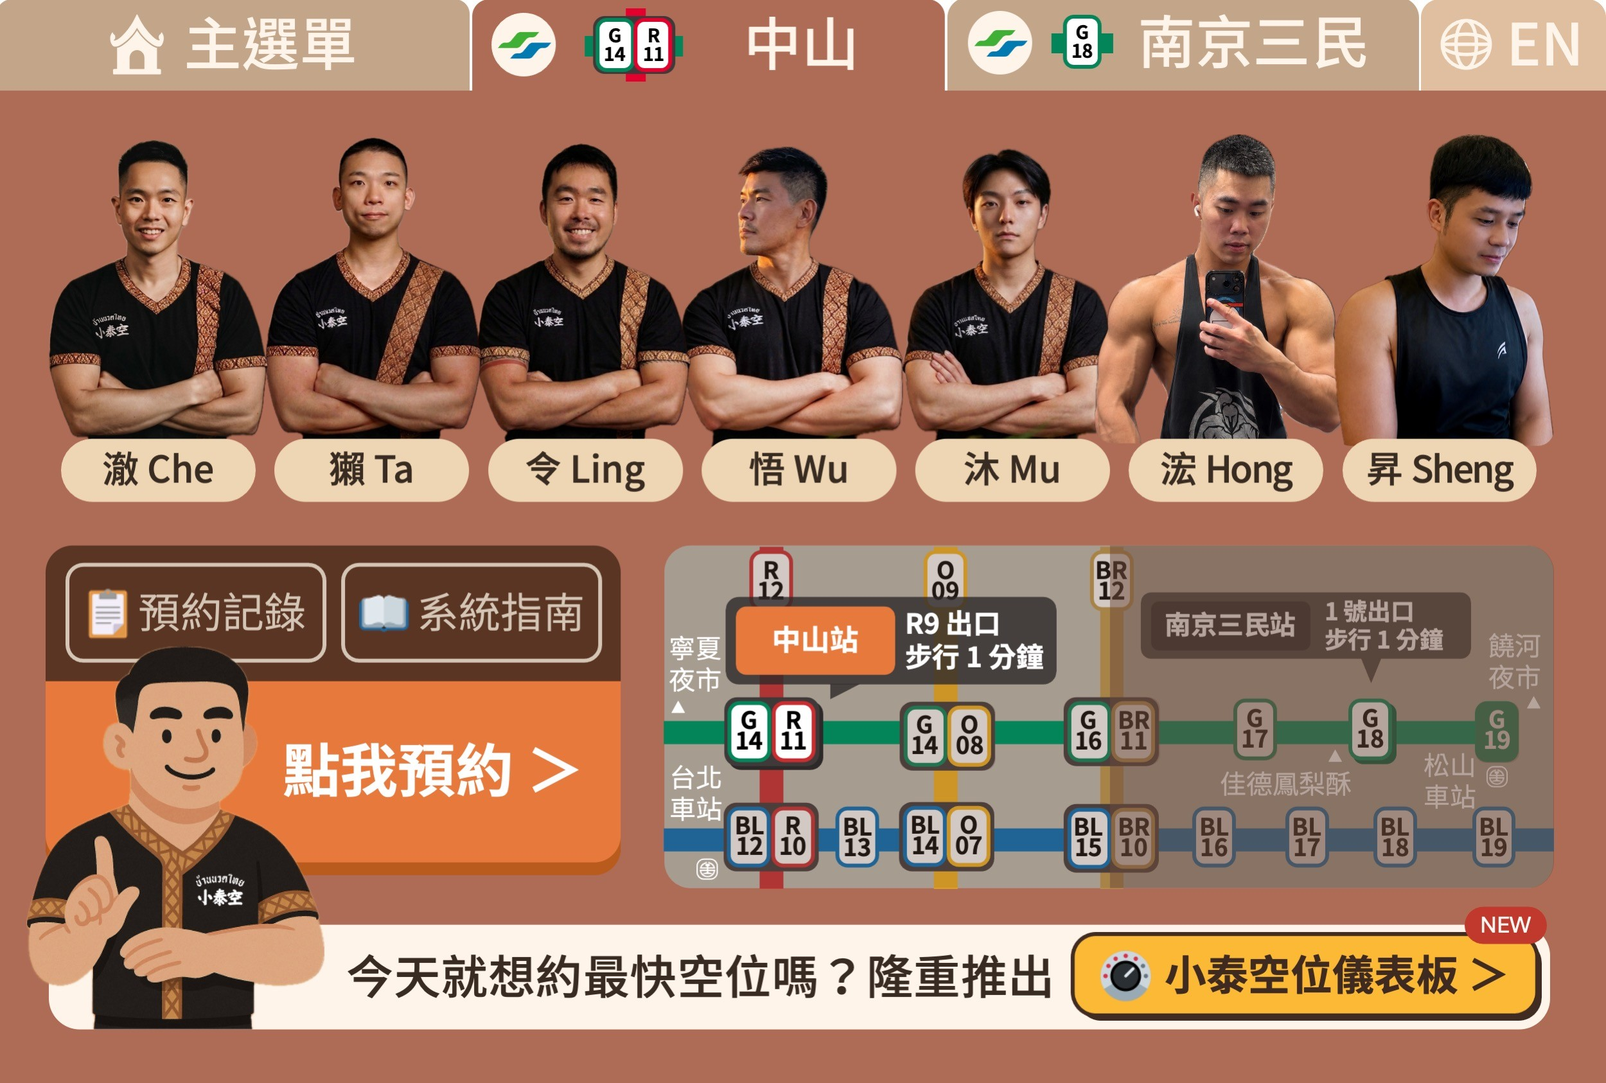
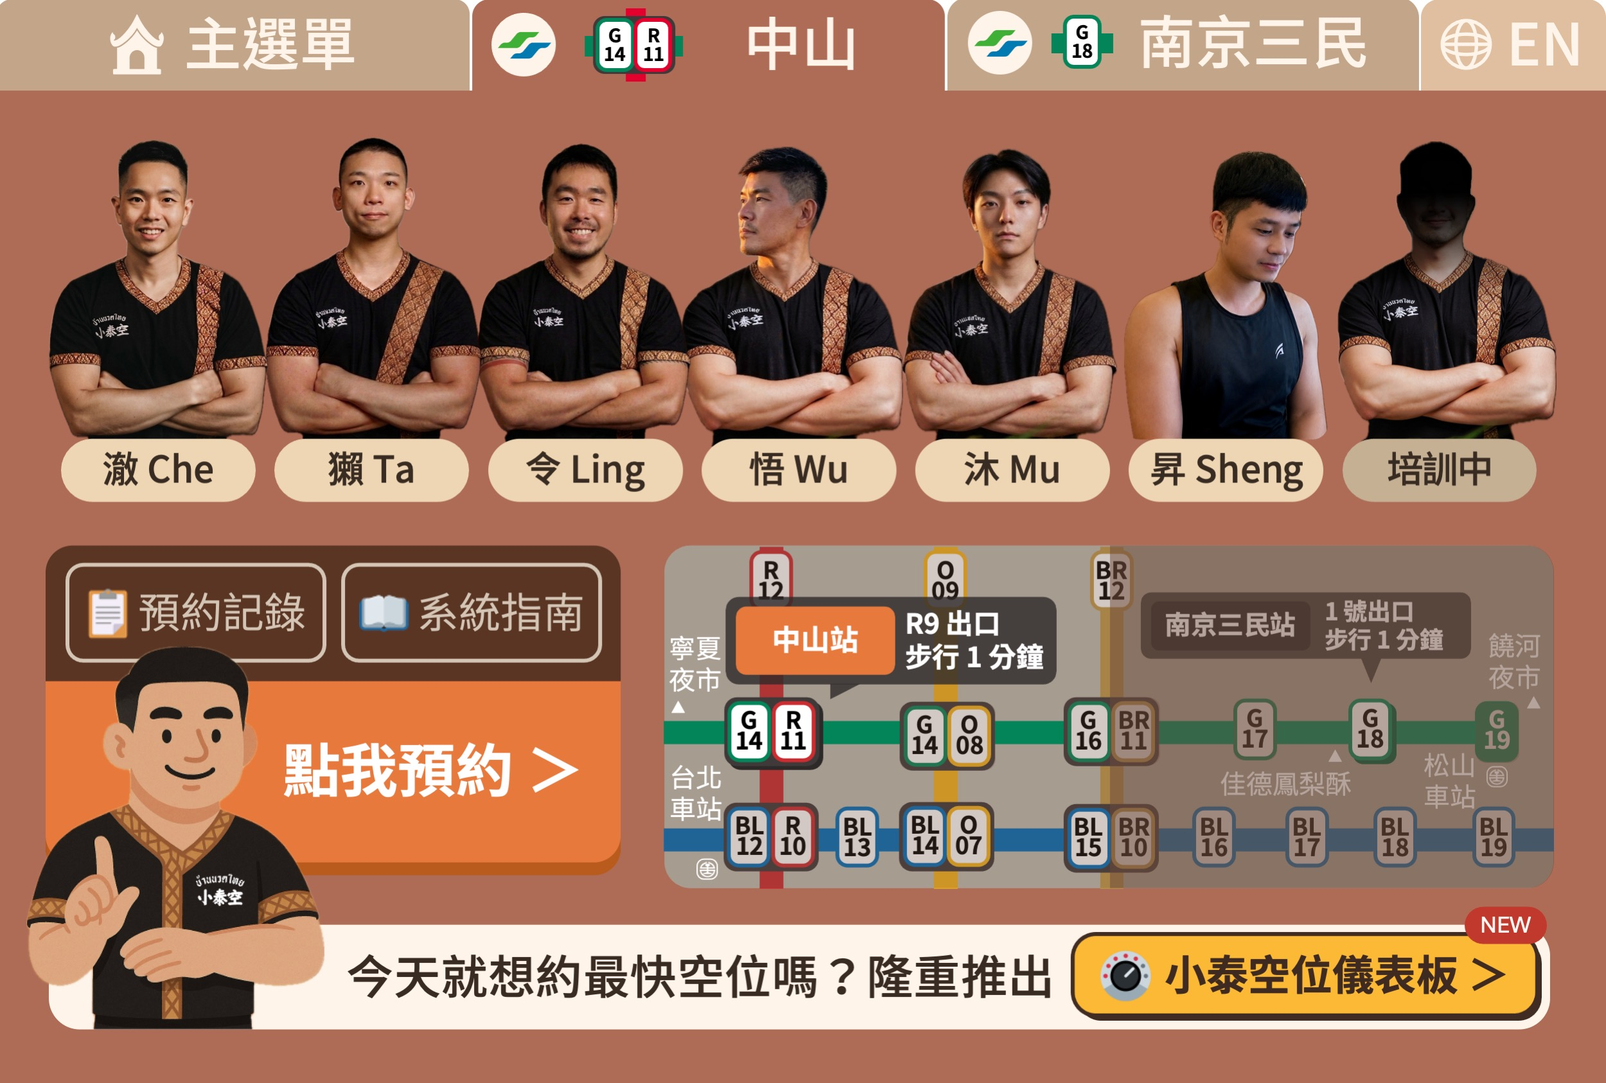
Add files via upload

Changed region(s): [[0.6552, 0.1234, 0.9672, 0.4626], [0.1872, 0.4318, 0.2496, 0.4626]]

diff --git a/index.html b/index.html
@@ -60,10 +60,10 @@
 <body>
 <div class="wrap">
 <div class="page" id="p1"><img src="page1.jpg" alt="主選單"><a class="spot" style="left:2.400%;top:13.345%;width:17.040%;height:34.045%" href="https://nick810303.github.io/spacethai_FAQ/" target="_blank" rel="noopener"></a><a class="spot" style="left:21.840%;top:13.286%;width:17.040%;height:34.045%" href="https://line.me/R/oaMessage/%40270vnkfr/?%E5%84%AA%E6%83%A0%E6%87%B6%E4%BA%BA%E5%8C%85" data-msg="優惠懶人包" title="優惠懶人包"></a><a class="spot" style="left:41.120%;top:13.464%;width:17.040%;height:34.045%" href="https://line.me/R/oaMessage/%40270vnkfr/?%E6%9C%8D%E5%8B%99%E9%A0%85%E7%9B%AE" data-msg="服務項目" title="服務項目"></a><a class="spot" style="left:60.560%;top:13.286%;width:17.040%;height:34.045%" href="https://line.me/R/oaMessage/%40270vnkfr/?%E9%A0%90%E7%B4%84%E9%A0%88%E7%9F%A5" data-msg="預約須知" title="預約須知"></a><a class="spot" style="left:80.120%;top:13.286%;width:17.040%;height:34.045%" href="https://line.me/R/oaMessage/%40270vnkfr/?%E9%97%9C%E6%96%BC%E5%B0%8F%E6%B3%B0%E7%A9%BA" data-msg="關於小泰空" title="關於小泰空"></a><a class="spot" style="left:2.560%;top:50.652%;width:18.240%;height:12.218%" href="https://liff.line.me/2007603682-rDEPkdA2/a33MS6uxvrwXxin2jHTk4N/record" target="_blank" rel="noopener"></a><a class="spot" style="left:20.560%;top:50.474%;width:18.240%;height:12.218%" href="https://nick810303.github.io/spacethai_manual/?openExternalBrowser=1" target="_blank" rel="noopener"></a><a class="spot" style="left:11.480%;top:62.574%;width:27.400%;height:17.912%" href="https://liff.line.me/2007603682-rDEPkdA2/a33MS6uxvrwXxin2jHTk4N/menu" target="_blank" rel="noopener"></a><a class="spot" style="left:41.160%;top:50.119%;width:28.160%;height:32.444%" href="https://line.me/R/oaMessage/%40270vnkfr/?%E5%B0%8F%E6%B3%B0%E7%A9%BA%EF%BC%8E%E4%B8%AD%E5%B1%B1" data-msg="小泰空．中山" title="小泰空．中山"></a><a class="spot" style="left:69.280%;top:50.059%;width:27.480%;height:32.444%" href="https://line.me/R/oaMessage/%40270vnkfr/?%E5%B0%8F%E6%B3%B0%E7%A9%BA%EF%BC%8E%E5%8D%97%E4%BA%AC%E4%B8%89%E6%B0%91" data-msg="小泰空．南京三民" title="小泰空．南京三民"></a><a class="spot" style="left:0.000%;top:0.000%;width:29.080%;height:10.854%" href="#p1" onclick="show(1);return false" aria-label="切換頁面"></a><a class="spot" style="left:29.200%;top:0.000%;width:29.800%;height:10.854%" href="#p2" onclick="show(2);return false" aria-label="切換頁面"></a><a class="spot" style="left:58.840%;top:0.000%;width:29.720%;height:10.854%" href="#p3" onclick="show(3);return false" aria-label="切換頁面"></a><a class="spot" style="left:88.600%;top:0.000%;width:11.240%;height:10.854%" href="#p4" onclick="show(4);return false" aria-label="切換頁面"></a><a class="spot" style="left:20.080%;top:85.172%;width:76.760%;height:10.083%" href="https://liff.line.me/2009610906-9zraEtAy" target="_blank" rel="noopener"></a></div>
-<div class="page" id="p2"><img src="page2.jpg" alt="中山"><a class="spot" style="left:2.920%;top:12.100%;width:13.880%;height:35.706%" href="https://line.me/R/oaMessage/%40270vnkfr/?%E9%97%9C%E6%96%BC%E6%BE%88%E8%80%81%E5%B8%AB" data-msg="關於澈老師" title="關於澈老師"></a><a class="spot" style="left:16.680%;top:12.040%;width:12.280%;height:35.706%" href="https://line.me/R/oaMessage/%40270vnkfr/?%E9%97%9C%E6%96%BC%E7%8D%BA%E8%80%81%E5%B8%AB" data-msg="關於獺老師" title="關於獺老師"></a><a class="spot" style="left:29.240%;top:12.100%;width:13.120%;height:35.706%" href="https://line.me/R/oaMessage/%40270vnkfr/?%E9%97%9C%E6%96%BC%E4%BB%A4%E8%80%81%E5%B8%AB" data-msg="關於令老師" title="關於令老師"></a><a class="spot" style="left:42.400%;top:12.040%;width:13.120%;height:35.706%" href="https://line.me/R/oaMessage/%40270vnkfr/?%E9%97%9C%E6%96%BC%E6%82%9F%E8%80%81%E5%B8%AB" data-msg="關於悟老師" title="關於悟老師"></a><a class="spot" style="left:55.400%;top:11.862%;width:13.120%;height:35.706%" href="https://line.me/R/oaMessage/%40270vnkfr/?%E9%97%9C%E6%96%BC%E6%B2%90%E8%80%81%E5%B8%AB" data-msg="關於沐老師" title="關於沐老師"></a><a class="spot" style="left:2.560%;top:50.652%;width:18.240%;height:12.218%" href="https://liff.line.me/2007603682-rDEPkdA2/a33MS6uxvrwXxin2jHTk4N/record" target="_blank" rel="noopener"></a><a class="spot" style="left:20.560%;top:50.474%;width:18.240%;height:12.218%" href="https://nick810303.github.io/spacethai_manual/?openExternalBrowser=1" target="_blank" rel="noopener"></a><a class="spot" style="left:11.480%;top:62.574%;width:27.400%;height:17.912%" href="https://liff.line.me/2007603682-rDEPkdA2/a33MS6uxvrwXxin2jHTk4N/menu" target="_blank" rel="noopener"></a><a class="spot" style="left:41.160%;top:50.119%;width:28.160%;height:32.444%" href="https://line.me/R/oaMessage/%40270vnkfr/?%E5%B0%8F%E6%B3%B0%E7%A9%BA%EF%BC%8E%E4%B8%AD%E5%B1%B1" data-msg="小泰空．中山" title="小泰空．中山"></a><a class="spot" style="left:0.000%;top:0.000%;width:29.080%;height:10.854%" href="#p1" onclick="show(1);return false" aria-label="切換頁面"></a><a class="spot" style="left:29.200%;top:0.000%;width:29.800%;height:10.854%" href="#p2" onclick="show(2);return false" aria-label="切換頁面"></a><a class="spot" style="left:58.840%;top:0.000%;width:29.720%;height:10.854%" href="#p3" onclick="show(3);return false" aria-label="切換頁面"></a><a class="spot" style="left:88.600%;top:0.000%;width:11.240%;height:10.854%" href="#p4" onclick="show(4);return false" aria-label="切換頁面"></a><a class="spot" style="left:20.080%;top:85.172%;width:76.760%;height:10.083%" href="https://liff.line.me/2009610906-9zraEtAy" target="_blank" rel="noopener"></a><a class="spot" style="left:68.720%;top:11.862%;width:14.760%;height:35.587%" href="https://line.me/R/oaMessage/%40270vnkfr/?%E9%97%9C%E6%96%BC%E6%B5%A4%E8%80%81%E5%B8%AB" data-msg="關於浤老師" title="關於浤老師"></a><a class="spot" style="left:83.640%;top:11.922%;width:14.760%;height:35.587%" href="https://line.me/R/oaMessage/%40270vnkfr/?%E9%97%9C%E6%96%BC%E6%98%87%E8%80%81%E5%B8%AB" data-msg="關於昇老師" title="關於昇老師"></a></div>
+<div class="page" id="p2"><img src="page2.jpg" alt="中山"><a class="spot" style="left:2.920%;top:12.100%;width:13.880%;height:35.706%" href="https://line.me/R/oaMessage/%40270vnkfr/?%E9%97%9C%E6%96%BC%E6%BE%88%E8%80%81%E5%B8%AB" data-msg="關於澈老師" title="關於澈老師"></a><a class="spot" style="left:16.680%;top:12.040%;width:12.280%;height:35.706%" href="https://line.me/R/oaMessage/%40270vnkfr/?%E9%97%9C%E6%96%BC%E7%8D%BA%E8%80%81%E5%B8%AB" data-msg="關於獺老師" title="關於獺老師"></a><a class="spot" style="left:29.240%;top:12.100%;width:13.120%;height:35.706%" href="https://line.me/R/oaMessage/%40270vnkfr/?%E9%97%9C%E6%96%BC%E4%BB%A4%E8%80%81%E5%B8%AB" data-msg="關於令老師" title="關於令老師"></a><a class="spot" style="left:42.400%;top:12.040%;width:13.120%;height:35.706%" href="https://line.me/R/oaMessage/%40270vnkfr/?%E9%97%9C%E6%96%BC%E6%82%9F%E8%80%81%E5%B8%AB" data-msg="關於悟老師" title="關於悟老師"></a><a class="spot" style="left:55.400%;top:11.862%;width:13.120%;height:35.706%" href="https://line.me/R/oaMessage/%40270vnkfr/?%E9%97%9C%E6%96%BC%E6%B2%90%E8%80%81%E5%B8%AB" data-msg="關於沐老師" title="關於沐老師"></a><a class="spot" style="left:2.560%;top:50.652%;width:18.240%;height:12.218%" href="https://liff.line.me/2007603682-rDEPkdA2/a33MS6uxvrwXxin2jHTk4N/record" target="_blank" rel="noopener"></a><a class="spot" style="left:20.560%;top:50.474%;width:18.240%;height:12.218%" href="https://nick810303.github.io/spacethai_manual/?openExternalBrowser=1" target="_blank" rel="noopener"></a><a class="spot" style="left:11.480%;top:62.574%;width:27.400%;height:17.912%" href="https://liff.line.me/2007603682-rDEPkdA2/a33MS6uxvrwXxin2jHTk4N/menu" target="_blank" rel="noopener"></a><a class="spot" style="left:41.160%;top:50.119%;width:28.160%;height:32.444%" href="https://line.me/R/oaMessage/%40270vnkfr/?%E5%B0%8F%E6%B3%B0%E7%A9%BA%EF%BC%8E%E4%B8%AD%E5%B1%B1" data-msg="小泰空．中山" title="小泰空．中山"></a><a class="spot" style="left:0.000%;top:0.000%;width:29.080%;height:10.854%" href="#p1" onclick="show(1);return false" aria-label="切換頁面"></a><a class="spot" style="left:29.200%;top:0.000%;width:29.800%;height:10.854%" href="#p2" onclick="show(2);return false" aria-label="切換頁面"></a><a class="spot" style="left:58.840%;top:0.000%;width:29.720%;height:10.854%" href="#p3" onclick="show(3);return false" aria-label="切換頁面"></a><a class="spot" style="left:88.600%;top:0.000%;width:11.240%;height:10.854%" href="#p4" onclick="show(4);return false" aria-label="切換頁面"></a><a class="spot" style="left:20.080%;top:85.172%;width:76.760%;height:10.083%" href="https://liff.line.me/2009610906-9zraEtAy" target="_blank" rel="noopener"></a><a class="spot" style="left:68.720%;top:11.862%;width:14.760%;height:35.587%" href="https://line.me/R/oaMessage/%40270vnkfr/?%E9%97%9C%E6%96%BC%E6%98%87%E8%80%81%E5%B8%AB" data-msg="關於昇老師" title="關於昇老師"></a><a class="spot" style="left:83.640%;top:11.922%;width:14.760%;height:35.587%" href="https://line.me/R/oaMessage/%40270vnkfr/?%E6%96%B0%E5%B8%AB%E5%9F%B9%E8%A8%93%E4%B8%AD%EF%BC%8C%E6%95%AC%E8%AB%8B%E6%9C%9F%E5%BE%85" data-msg="新師培訓中，敬請期待" title="新師培訓中，敬請期待"></a></div>
 <div class="page" id="p3"><img src="page3.jpg" alt="南京三民"><a class="spot" style="left:0.280%;top:12.100%;width:13.880%;height:35.706%" href="https://line.me/R/oaMessage/%40270vnkfr/?%E9%97%9C%E6%96%BC%E6%BA%90%E8%80%81%E5%B8%AB" data-msg="關於源老師" title="關於源老師"></a><a class="spot" style="left:13.440%;top:12.040%;width:12.280%;height:35.706%" href="https://line.me/R/oaMessage/%40270vnkfr/?%E9%97%9C%E6%96%BC%E6%9B%B8%E8%80%81%E5%B8%AB" data-msg="關於書老師" title="關於書老師"></a><a class="spot" style="left:25.040%;top:12.278%;width:12.040%;height:35.706%" href="https://line.me/R/oaMessage/%40270vnkfr/?%E9%97%9C%E6%96%BC%E6%9F%8F%E8%80%81%E5%B8%AB" data-msg="關於柏老師" title="關於柏老師"></a><a class="spot" style="left:37.000%;top:12.218%;width:12.400%;height:35.706%" href="https://line.me/R/oaMessage/%40270vnkfr/?%E9%97%9C%E6%96%BC%E9%8D%9B%E8%80%81%E5%B8%AB" data-msg="關於鍛老師" title="關於鍛老師"></a><a class="spot" style="left:49.400%;top:11.862%;width:12.600%;height:35.706%" href="https://line.me/R/oaMessage/%40270vnkfr/?%E9%97%9C%E6%96%BC%E6%9B%9C%E8%80%81%E5%B8%AB" data-msg="關於曜老師" title="關於曜老師"></a><a class="spot" style="left:61.880%;top:12.159%;width:12.720%;height:35.706%" href="https://line.me/R/oaMessage/%40270vnkfr/?%E9%97%9C%E6%96%BC%E6%A4%B0%E8%80%81%E5%B8%AB" data-msg="關於椰老師" title="關於椰老師"></a><a class="spot" style="left:74.480%;top:12.040%;width:12.240%;height:35.706%" href="https://line.me/R/oaMessage/%40270vnkfr/?%E9%97%9C%E6%96%BC%E5%AF%A7%E8%80%81%E5%B8%AB" data-msg="關於寧老師" title="關於寧老師"></a><a class="spot" style="left:2.560%;top:50.652%;width:18.240%;height:12.218%" href="https://liff.line.me/2007603682-rDEPkdA2/a33MS6uxvrwXxin2jHTk4N/record" target="_blank" rel="noopener"></a><a class="spot" style="left:20.560%;top:50.474%;width:18.240%;height:12.218%" href="https://nick810303.github.io/spacethai_manual/?openExternalBrowser=1" target="_blank" rel="noopener"></a><a class="spot" style="left:11.480%;top:62.574%;width:27.400%;height:17.912%" href="https://liff.line.me/2007603682-rDEPkdA2/a33MS6uxvrwXxin2jHTk4N/menu" target="_blank" rel="noopener"></a><a class="spot" style="left:69.000%;top:50.237%;width:28.160%;height:32.444%" href="https://line.me/R/oaMessage/%40270vnkfr/?%E5%B0%8F%E6%B3%B0%E7%A9%BA%EF%BC%8E%E5%8D%97%E4%BA%AC%E4%B8%89%E6%B0%91" data-msg="小泰空．南京三民" title="小泰空．南京三民"></a><a class="spot" style="left:0.000%;top:0.000%;width:29.080%;height:10.854%" href="#p1" onclick="show(1);return false" aria-label="切換頁面"></a><a class="spot" style="left:29.200%;top:0.000%;width:29.800%;height:10.854%" href="#p2" onclick="show(2);return false" aria-label="切換頁面"></a><a class="spot" style="left:58.840%;top:0.000%;width:29.720%;height:10.854%" href="#p3" onclick="show(3);return false" aria-label="切換頁面"></a><a class="spot" style="left:88.600%;top:0.000%;width:11.240%;height:10.854%" href="#p4" onclick="show(4);return false" aria-label="切換頁面"></a><a class="spot" style="left:86.640%;top:12.159%;width:13.360%;height:34.698%" href="https://line.me/R/oaMessage/%40270vnkfr/?%E9%97%9C%E6%96%BC%E6%98%8A%E8%80%81%E5%B8%AB" data-msg="關於昊老師" title="關於昊老師"></a><a class="spot" style="left:20.680%;top:85.172%;width:76.760%;height:10.083%" href="https://liff.line.me/2009610906-9zraEtAy" target="_blank" rel="noopener"></a></div>
 <div class="page" id="p4"><img src="page4.jpg" alt="English"><a class="spot" style="left:2.400%;top:13.345%;width:17.040%;height:34.045%" href="https://nick810303.github.io/spacethai_FAQ/?lang=en" target="_blank" rel="noopener"></a><a class="spot" style="left:21.840%;top:13.286%;width:17.040%;height:34.045%" href="https://line.me/R/oaMessage/%40270vnkfr/?Savings" data-msg="Savings" title="Savings"></a><a class="spot" style="left:41.120%;top:13.464%;width:17.040%;height:34.045%" href="https://line.me/R/oaMessage/%40270vnkfr/?Service" data-msg="Service" title="Service"></a><a class="spot" style="left:60.560%;top:13.286%;width:17.040%;height:34.045%" href="#p5" onclick="show(5);return false" aria-label="切換頁面"></a><a class="spot" style="left:80.120%;top:13.286%;width:17.040%;height:34.045%" href="https://line.me/R/oaMessage/%40270vnkfr/?About" data-msg="About" title="About"></a><a class="spot" style="left:2.560%;top:50.652%;width:18.240%;height:12.218%" href="https://liff.line.me/2007603682-rDEPkdA2/a33MS6uxvrwXxin2jHTk4N/record" target="_blank" rel="noopener"></a><a class="spot" style="left:20.560%;top:50.474%;width:18.240%;height:12.218%" href="https://nick810303.github.io/spacethai_manual/?lang=en&amp;openExternalBrowser=1" target="_blank" rel="noopener"></a><a class="spot" style="left:11.480%;top:62.574%;width:27.400%;height:17.912%" href="https://liff.line.me/2007603682-rDEPkdA2/a33MS6uxvrwXxin2jHTk4N/menu" target="_blank" rel="noopener"></a><a class="spot" style="left:41.160%;top:50.237%;width:28.160%;height:32.444%" href="https://line.me/R/oaMessage/%40270vnkfr/?Zhongshan" data-msg="Zhongshan" title="Zhongshan"></a><a class="spot" style="left:69.200%;top:50.178%;width:27.480%;height:32.444%" href="https://line.me/R/oaMessage/%40270vnkfr/?Nanjing%20Sanmin" data-msg="Nanjing Sanmin" title="Nanjing Sanmin"></a><a class="spot" style="left:0.000%;top:0.000%;width:29.080%;height:10.854%" href="#p1" onclick="show(1);return false" aria-label="切換頁面"></a><a class="spot" style="left:29.200%;top:0.000%;width:29.800%;height:10.854%" href="#p2" onclick="show(2);return false" aria-label="切換頁面"></a><a class="spot" style="left:58.840%;top:0.000%;width:29.720%;height:10.854%" href="#p3" onclick="show(3);return false" aria-label="切換頁面"></a><a class="spot" style="left:88.600%;top:0.000%;width:11.240%;height:10.854%" href="#p4" onclick="show(4);return false" aria-label="切換頁面"></a></div>
-<div class="page" id="p5"><img src="page5.jpg" alt="Team_en"><a class="spot" style="left:1.360%;top:1.542%;width:62.560%;height:11.507%" href="https://line.me/R/oaMessage/%40270vnkfr/?Zhongshan" data-msg="Zhongshan" title="Zhongshan"></a><a class="spot" style="left:1.320%;top:50.178%;width:68.080%;height:11.507%" href="https://line.me/R/oaMessage/%40270vnkfr/?Nanjing%20Sanmin" data-msg="Nanjing Sanmin" title="Nanjing Sanmin"></a><a class="spot" style="left:2.920%;top:13.108%;width:13.880%;height:35.706%" href="https://line.me/R/oaMessage/%40270vnkfr/?%E9%97%9C%E6%96%BC%E6%BE%88%E8%80%81%E5%B8%AB" data-msg="關於澈老師" title="關於澈老師"></a><a class="spot" style="left:16.920%;top:13.286%;width:12.280%;height:35.706%" href="https://line.me/R/oaMessage/%40270vnkfr/?%E9%97%9C%E6%96%BC%E7%8D%BA%E8%80%81%E5%B8%AB" data-msg="關於獺老師" title="關於獺老師"></a><a class="spot" style="left:29.160%;top:13.108%;width:13.120%;height:35.706%" href="https://line.me/R/oaMessage/%40270vnkfr/?%E9%97%9C%E6%96%BC%E4%BB%A4%E8%80%81%E5%B8%AB" data-msg="關於令老師" title="關於令老師"></a><a class="spot" style="left:42.400%;top:13.167%;width:13.120%;height:35.706%" href="https://line.me/R/oaMessage/%40270vnkfr/?%E9%97%9C%E6%96%BC%E6%82%9F%E8%80%81%E5%B8%AB" data-msg="關於悟老師" title="關於悟老師"></a><a class="spot" style="left:55.560%;top:13.227%;width:13.120%;height:35.706%" href="https://line.me/R/oaMessage/%40270vnkfr/?%E9%97%9C%E6%96%BC%E6%B2%90%E8%80%81%E5%B8%AB" data-msg="關於沐老師" title="關於沐老師"></a><a class="spot" style="left:69.000%;top:13.464%;width:13.920%;height:35.706%" href="https://line.me/R/oaMessage/%40270vnkfr/?%E9%97%9C%E6%96%BC%E6%B5%A4%E8%80%81%E5%B8%AB" data-msg="關於浤老師" title="關於浤老師"></a><a class="spot" style="left:83.120%;top:13.582%;width:13.920%;height:35.706%" href="https://line.me/R/oaMessage/%40270vnkfr/?%E9%97%9C%E6%96%BC%E6%98%87%E8%80%81%E5%B8%AB" data-msg="關於昇老師" title="關於昇老師"></a><a class="spot" style="left:0.680%;top:62.218%;width:12.800%;height:35.706%" href="https://line.me/R/oaMessage/%40270vnkfr/?%E9%97%9C%E6%96%BC%E6%BA%90%E8%80%81%E5%B8%AB" data-msg="關於源老師" title="關於源老師"></a><a class="spot" style="left:13.320%;top:62.218%;width:12.280%;height:35.706%" href="https://line.me/R/oaMessage/%40270vnkfr/?%E9%97%9C%E6%96%BC%E6%9B%B8%E8%80%81%E5%B8%AB" data-msg="關於書老師" title="關於書老師"></a><a class="spot" style="left:25.600%;top:61.803%;width:11.680%;height:35.706%" href="https://line.me/R/oaMessage/%40270vnkfr/?%E9%97%9C%E6%96%BC%E6%9F%8F%E8%80%81%E5%B8%AB" data-msg="關於柏老師" title="關於柏老師"></a><a class="spot" style="left:37.080%;top:62.040%;width:12.280%;height:35.706%" href="https://line.me/R/oaMessage/%40270vnkfr/?%E9%97%9C%E6%96%BC%E9%8D%9B%E8%80%81%E5%B8%AB" data-msg="關於鍛老師" title="關於鍛老師"></a><a class="spot" style="left:49.200%;top:61.981%;width:12.960%;height:35.706%" href="https://line.me/R/oaMessage/%40270vnkfr/?%E9%97%9C%E6%96%BC%E6%9B%9C%E8%80%81%E5%B8%AB" data-msg="關於曜老師" title="關於曜老師"></a><a class="spot" style="left:62.000%;top:61.922%;width:12.480%;height:35.706%" href="https://line.me/R/oaMessage/%40270vnkfr/?%E9%97%9C%E6%96%BC%E6%A4%B0%E8%80%81%E5%B8%AB" data-msg="關於椰老師" title="關於椰老師"></a><a class="spot" style="left:74.360%;top:61.684%;width:12.120%;height:35.706%" href="https://line.me/R/oaMessage/%40270vnkfr/?%E9%97%9C%E6%96%BC%E5%AF%A7%E8%80%81%E5%B8%AB" data-msg="關於寧老師" title="關於寧老師"></a><a class="spot" style="left:78.720%;top:0.000%;width:21.280%;height:13.760%" href="#p4" onclick="show(4);return false" aria-label="切換頁面"></a><a class="spot" style="left:86.400%;top:62.159%;width:13.360%;height:35.409%" href="https://line.me/R/oaMessage/%40270vnkfr/?%E9%97%9C%E6%96%BC%E6%98%8A%E8%80%81%E5%B8%AB" data-msg="關於昊老師" title="關於昊老師"></a></div>
+<div class="page" id="p5"><img src="page5.jpg" alt="Team_en"><a class="spot" style="left:1.360%;top:1.542%;width:62.560%;height:11.507%" href="https://line.me/R/oaMessage/%40270vnkfr/?Zhongshan" data-msg="Zhongshan" title="Zhongshan"></a><a class="spot" style="left:1.320%;top:50.178%;width:68.080%;height:11.507%" href="https://line.me/R/oaMessage/%40270vnkfr/?Nanjing%20Sanmin" data-msg="Nanjing Sanmin" title="Nanjing Sanmin"></a><a class="spot" style="left:2.920%;top:13.108%;width:13.880%;height:35.706%" href="https://line.me/R/oaMessage/%40270vnkfr/?%E9%97%9C%E6%96%BC%E6%BE%88%E8%80%81%E5%B8%AB" data-msg="關於澈老師" title="關於澈老師"></a><a class="spot" style="left:16.920%;top:13.286%;width:12.280%;height:35.706%" href="https://line.me/R/oaMessage/%40270vnkfr/?%E9%97%9C%E6%96%BC%E7%8D%BA%E8%80%81%E5%B8%AB" data-msg="關於獺老師" title="關於獺老師"></a><a class="spot" style="left:29.160%;top:13.108%;width:13.120%;height:35.706%" href="https://line.me/R/oaMessage/%40270vnkfr/?%E9%97%9C%E6%96%BC%E4%BB%A4%E8%80%81%E5%B8%AB" data-msg="關於令老師" title="關於令老師"></a><a class="spot" style="left:42.400%;top:13.167%;width:13.120%;height:35.706%" href="https://line.me/R/oaMessage/%40270vnkfr/?%E9%97%9C%E6%96%BC%E6%82%9F%E8%80%81%E5%B8%AB" data-msg="關於悟老師" title="關於悟老師"></a><a class="spot" style="left:55.560%;top:13.227%;width:13.120%;height:35.706%" href="https://line.me/R/oaMessage/%40270vnkfr/?%E9%97%9C%E6%96%BC%E6%B2%90%E8%80%81%E5%B8%AB" data-msg="關於沐老師" title="關於沐老師"></a><a class="spot" style="left:69.000%;top:13.464%;width:13.920%;height:35.706%" href="https://line.me/R/oaMessage/%40270vnkfr/?%E9%97%9C%E6%96%BC%E6%98%87%E8%80%81%E5%B8%AB" data-msg="關於昇老師" title="關於昇老師"></a><a class="spot" style="left:83.120%;top:13.582%;width:13.920%;height:35.706%" href="https://line.me/R/oaMessage/%40270vnkfr/?Training%20in%20Progress%20%E2%80%A2%20Coming%20Soon" data-msg="Training in Progress • Coming Soon" title="Training in Progress • Coming Soon"></a><a class="spot" style="left:0.680%;top:62.218%;width:12.800%;height:35.706%" href="https://line.me/R/oaMessage/%40270vnkfr/?%E9%97%9C%E6%96%BC%E6%BA%90%E8%80%81%E5%B8%AB" data-msg="關於源老師" title="關於源老師"></a><a class="spot" style="left:13.320%;top:62.218%;width:12.280%;height:35.706%" href="https://line.me/R/oaMessage/%40270vnkfr/?%E9%97%9C%E6%96%BC%E6%9B%B8%E8%80%81%E5%B8%AB" data-msg="關於書老師" title="關於書老師"></a><a class="spot" style="left:25.600%;top:61.803%;width:11.680%;height:35.706%" href="https://line.me/R/oaMessage/%40270vnkfr/?%E9%97%9C%E6%96%BC%E6%9F%8F%E8%80%81%E5%B8%AB" data-msg="關於柏老師" title="關於柏老師"></a><a class="spot" style="left:37.080%;top:62.040%;width:12.280%;height:35.706%" href="https://line.me/R/oaMessage/%40270vnkfr/?%E9%97%9C%E6%96%BC%E9%8D%9B%E8%80%81%E5%B8%AB" data-msg="關於鍛老師" title="關於鍛老師"></a><a class="spot" style="left:49.200%;top:61.981%;width:12.960%;height:35.706%" href="https://line.me/R/oaMessage/%40270vnkfr/?%E9%97%9C%E6%96%BC%E6%9B%9C%E8%80%81%E5%B8%AB" data-msg="關於曜老師" title="關於曜老師"></a><a class="spot" style="left:62.000%;top:61.922%;width:12.480%;height:35.706%" href="https://line.me/R/oaMessage/%40270vnkfr/?%E9%97%9C%E6%96%BC%E6%A4%B0%E8%80%81%E5%B8%AB" data-msg="關於椰老師" title="關於椰老師"></a><a class="spot" style="left:74.360%;top:61.684%;width:12.120%;height:35.706%" href="https://line.me/R/oaMessage/%40270vnkfr/?%E9%97%9C%E6%96%BC%E5%AF%A7%E8%80%81%E5%B8%AB" data-msg="關於寧老師" title="關於寧老師"></a><a class="spot" style="left:78.720%;top:0.000%;width:21.280%;height:13.760%" href="#p4" onclick="show(4);return false" aria-label="切換頁面"></a><a class="spot" style="left:86.400%;top:62.159%;width:13.360%;height:35.409%" href="https://line.me/R/oaMessage/%40270vnkfr/?%E9%97%9C%E6%96%BC%E6%98%8A%E8%80%81%E5%B8%AB" data-msg="關於昊老師" title="關於昊老師"></a></div>
 </div>
 <div id="toast"></div>
 <script>
